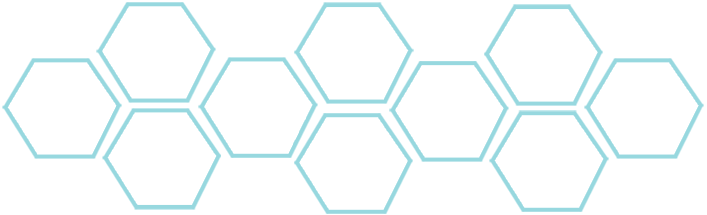
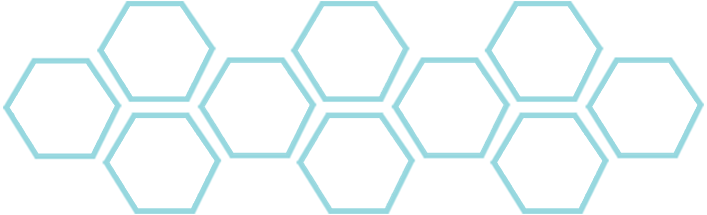
Minor css updates on competency report page 01

diff --git a/app/assets/stylesheets/reports.sass b/app/assets/stylesheets/reports.sass
@@ -516,6 +516,9 @@ body
     .medium-text
       font-size: 19.80px
   .competency_report
+    .competency_container
+      border: 3px solid #ff8308
+      padding-bottom: 15px
     .inner
       margin-top: 90px
       .scale
@@ -550,7 +553,7 @@ body
           padding: 7px 10px 7px 55px
           color: #969696
           font-weight: bold
-          margin-bottom: 10px
+          margin-top: 8px
           font-size: 12px
           background: image-url("report/competency-hexagon-small.png") no-repeat
         .instruction2
@@ -594,7 +597,7 @@ body
         font-weight: normal
         font-size: 90%
   .factor-block
-    margin-top : 15px
+    margin: 15px 15px 0 15px
     .factor-header
       background: #f5f7f8
       font-size: 18.40px
@@ -622,35 +625,35 @@ body
         width: 90px
         text-align: center      
       .factor1
-        left: 142px
+        left: 124px
         top: 42px
       .factor2
-        left: 339px
+        left: 317px
         top: 42px
       .factor3
-        left: 529px
+        left: 511px
         top: 42px
       .factor4
-        left: 47px
+        left: 30px
         top: 95px
       .factor5
-        left: 243px
+        left: 224px
         top: 95px
       .factor6
-        left: 434px
+        left: 417px
         top: 95px
       .factor7
-        left: 630px
+        left: 612px
         top: 95px
       .factor8
-        left: 147px
-        top: 148px
+        left: 130px
+        top: 150px
       .factor9
-        left: 339px
-        top: 148px
+        left: 317px
+        top: 150px
       .factor10
-        left: 534px
-        top: 148px
+        left: 511px
+        top: 150px
 
   .notification
     background: #dceaf8
